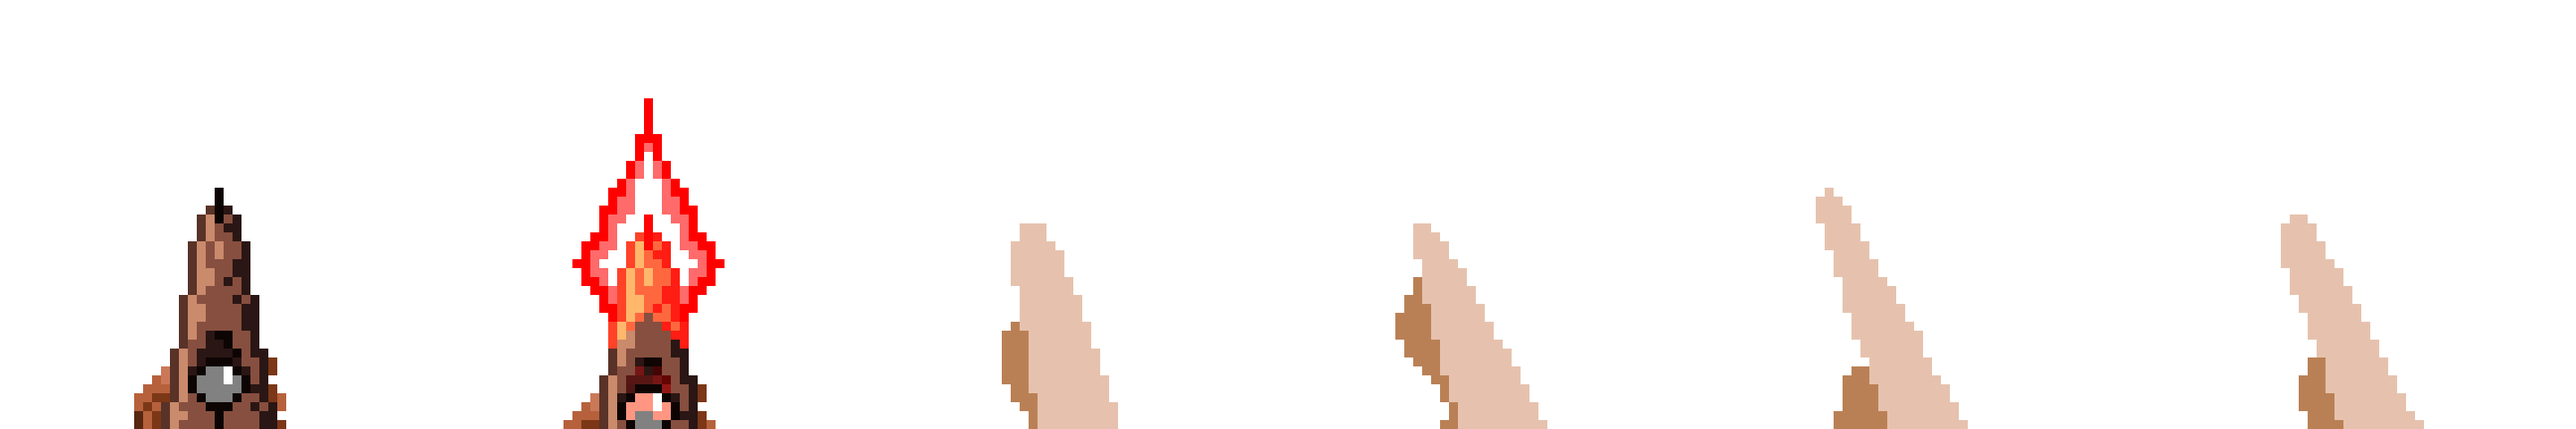
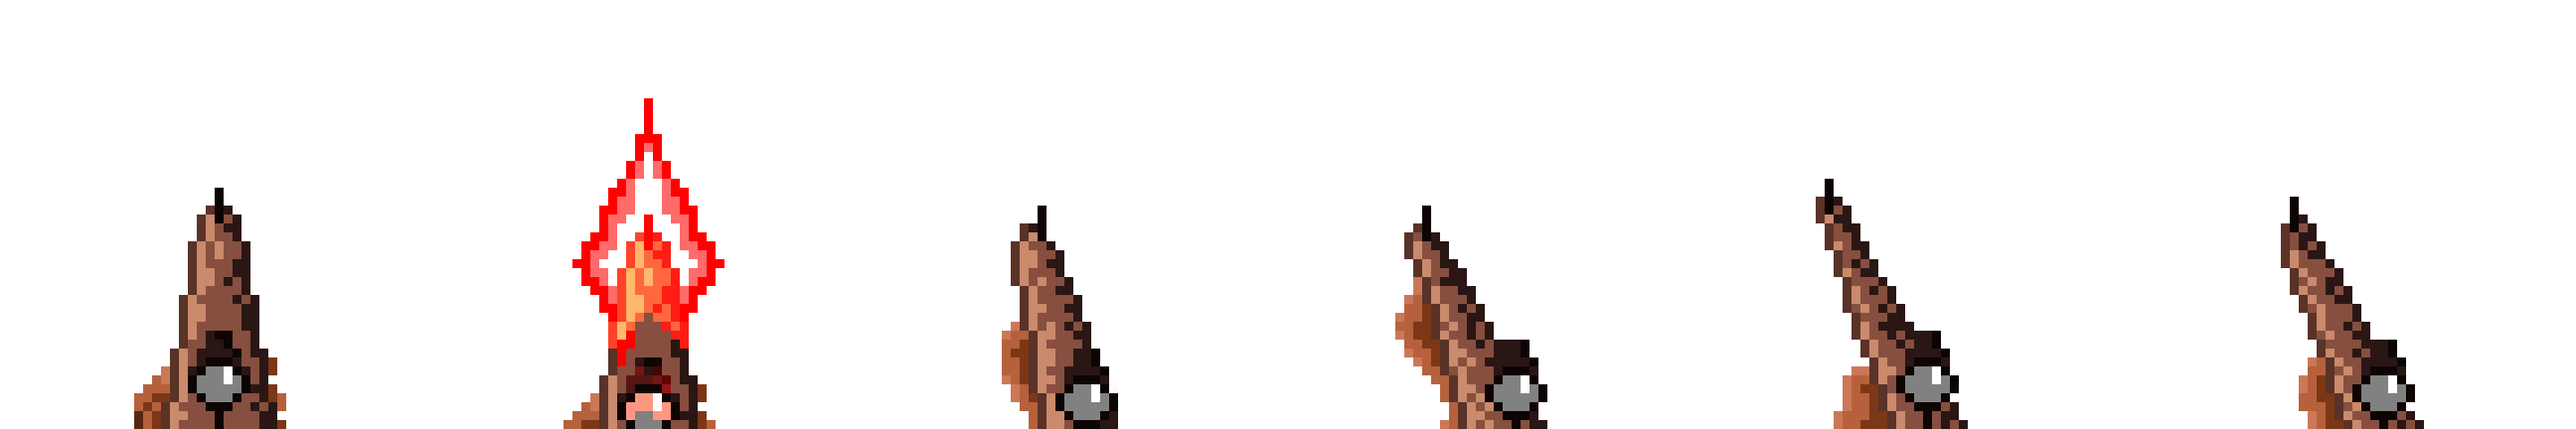
Added and integrated Destroy2 animation (red barrel destroy). Added next level UI [WIP]. Completed Winchester gun art.

diff --git a/js/ui/nextLevelUI.js b/js/ui/nextLevelUI.js
@@ -1,0 +1,79 @@
+//Next Level UI will also display Game Finish Screen.
+
+const NEXTLEVELUI = 2;
+
+nextLevelUI = [];
+
+function setupNextLevelUI()
+{
+    // menuButtons = [];
+    // playButton = new TextButton(tr(vec2(), btnSize),
+    //     new Label(tr(), "  PLAY        P",
+    //     mainMenuFontSize.toString() + "px " + uiContext.fontFamily, undefined, -1),
+    //     new Button(tr(), "#00000090", "#990099FF", "#330033FF"),"");
+    // menuButtons.push(playButton);
+    // editorButton = new TextButton(tr(vec2(), btnSize),
+    //     new Label(tr(), "  LEVEL EDITOR        E",
+    //     mainMenuFontSize.toString() + "px " + uiContext.fontFamily, undefined, -1),
+    //     new Button(tr(), "#00000090", "#990099FF", "#330033FF"),"");
+    // menuButtons.push(editorButton);
+    // loadButton = new TextButton(tr(vec2(), btnSize),
+    //     new Label(tr(), "  LOAD LEVEL        L",
+    //     mainMenuFontSize.toString() + "px " + uiContext.fontFamily, undefined, -1),
+    //     new Button(tr(), "#00000090", "#990099FF", "#330033FF"),"");
+    // menuButtons.push(loadButton);
+    // creditsButton = new TextButton(tr(vec2(), btnSize),
+    //     new Label(tr(), "  CREDITS        C",
+    //     mainMenuFontSize.toString() + "px " + uiContext.fontFamily, undefined, -1),
+    //     new Button(tr(), "#00000090", "#990099FF", "#330033FF"),"");
+    // menuButtons.push(creditsButton);
+
+    // mainMenuUI.push(new FlexGroup(tr(vec2(50, 350), vec2(window.innerWidth, window.innerHeight-350)),
+    //     new SubState(tr(), menuButtons),false, vec2(window.innerWidth/3, 20), vec2(1, 5), true));
+
+    //mainMenuUI.push(new Label(tr(vec2(window.innerWidth/2+200, window.innerHeight/2), vec2(400, 100)), "Background Door will be here"));
+}
+
+function nextLevelUICustomDraw()
+{
+}
+
+function nextLevelUICustomEvents()
+{
+    // if(playButton.button.output == UIOUTPUT_SELECT
+    //     || keysDown.indexOf('p') != -1)
+    // {
+    //     ui.stateIndex = GAMEPLAYUI;
+    //     ui.transitionAnimation();
+    //     if(mapMode) toggleGameplay();
+
+    //     audio.play1DSound(sounds[MENU_CLICK_BTN]);
+    //     playButton.button.resetOutput();
+    // }
+    // else if(editorButton.button.output == UIOUTPUT_SELECT
+    //     || keysDown.indexOf('e') != -1)
+    // {
+    //     ui.stateIndex = GAMEPLAYUI;
+    //     ui.transitionAnimation();
+    //     if(!mapMode) toggleGameplay();
+
+    //     audio.play1DSound(sounds[MENU_CLICK_BTN]);
+    //     editorButton.button.resetOutput();
+    // }
+    // else if(loadButton.button.output == UIOUTPUT_SELECT
+    //     || keysDown.indexOf('l') != -1)
+    // {
+    //     //  WIP!!!
+
+    //     audio.play1DSound(sounds[MENU_CLICK_BTN]);
+    //     loadButton.button.resetOutput();
+    // }
+    // else if(creditsButton.button.output == UIOUTPUT_SELECT
+    //     || keysDown.indexOf('s') != -1)
+    // {
+    //     //  WIP!!!
+
+    //     audio.play1DSound(sounds[MENU_CLICK_BTN]);
+    //     creditsButton.button.resetOutput();
+    // }
+}

diff --git a/js/main.js b/js/main.js
@@ -10,6 +10,7 @@ function events(deltaTime)
     {
         case MAINMENUUI: mainMenuUICustomEvents(); break;
         case GAMEPLAYUI: gameplayUICustomEvents(deltaTime); break;
+        case NEXTLEVELUI: nextLevelUICustomEvents(); break;
     }
     ui.event();
 }
@@ -27,6 +28,7 @@ function draw(deltaTime)
     {
         case MAINMENUUI: mainMenuUICustomDraw(); break;
         case GAMEPLAYUI: gameplayUICustomDraw(deltaTime); break;
+        case NEXTLEVELUI: nextLevelUICustomDraw(deltaTime); break;
     }
     ui.draw(deltaTime);
 }

diff --git a/js/raycast3D/entity.js b/js/raycast3D/entity.js
@@ -62,6 +62,10 @@ const ENT_DESTROY1 = 6;
 entProp[ENT_DESTROY1].idleImg = new ImageObject("images/destroy1.png", vec2(1280, 160));
 entProp[ENT_DESTROY1].effectFrame = 40;
 
+const ENT_DESTROY2 = 7;
+entProp[ENT_DESTROY2].idleImg = new ImageObject("images/destroy2.png", vec2(1280, 160));
+entProp[ENT_DESTROY2].effectFrame = 40;
+
 const decorTotalTypes = 10;
 //////////////////////////////////////////////////////
 // ITEMS

diff --git a/js/items.js b/js/items.js
@@ -282,7 +282,7 @@ function itemToPlayerShotReaction(item) //return true to destroy item
 
             if(typeof item.hp == "undefined") { item.hp = 1; }
             else if(item.hp > 0) { item.hp--; }
-            else { decor.addUsingAnotherEntity(item, ENT_DESTROY1); return true; }
+            else { decor.addUsingAnotherEntity(item, ENT_DESTROY2); return true; }
 
             //WIP!!!
             //Play sound!!!

diff --git a/js/ui/settings.js b/js/ui/settings.js
@@ -3,9 +3,11 @@ function uiInit()
     uiSettings();
     setupGameplayUI();
     setupMainMenuUI();
+    setupNextLevelUI();
     uistates = [];
     uistates.push(new UIState(mainMenuUI));
     uistates.push(new UIState(gameplayUI));
+    uistates.push(new UIState(nextLevelUI));
     ui = new UI(uistates, MAINMENUUI);
 }
 

diff --git a/index.html b/index.html
@@ -185,6 +185,7 @@
   <script src="js/ui/mainMenuFX.js"></script>
   <script src="js/ui/mainMenuUI.js"></script>
   <script src="js/ui/gameplayUI.js"></script>
+  <script src="js/ui/nextLevelUI.js"></script>
 
   <script src="js/editor/editorMain.js"></script>
   <script src="js/editor/editorRender.js"></script>

diff --git a/js/ui/gameplayUI.js b/js/ui/gameplayUI.js
@@ -19,6 +19,7 @@ var showControlPanel = true;
 var currentEditTabIndex = -1;
 
 const GAMEPLAYUI = 1;
+
 var minFPS = 99999;
 var maxFPS = 0;
 
